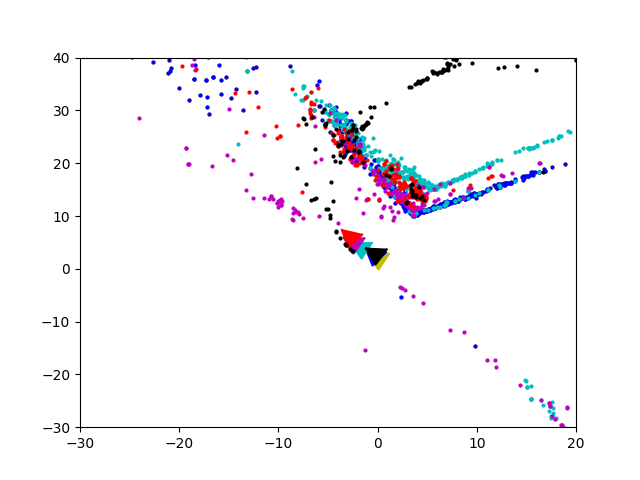
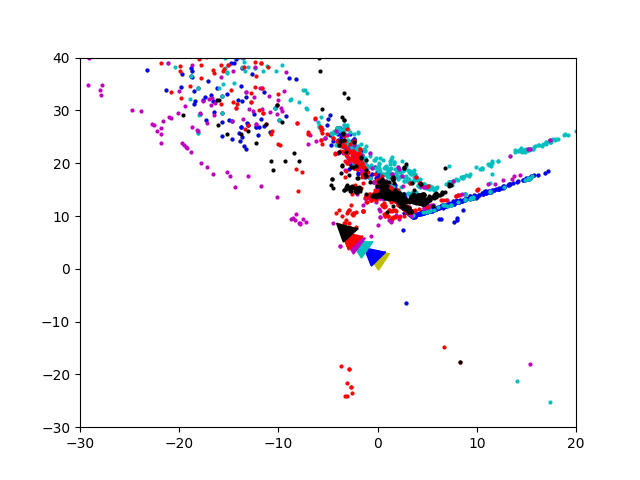
BA done

diff --git a/Code/Part1/BundleAdjustment.py b/Code/Part1/BundleAdjustment.py
@@ -2,9 +2,27 @@ import numpy as np
 from scipy.optimize import least_squares
 from NonlinearPnP import rot2Quat, quat2Rot
 from Misc.utils import MiscFuncs
+from scipy.sparse import lil_matrix
+import time
+
+def bundle_adjustment_sparsity(n_cameras, n_points, camera_indices, point_indices):
+    m = camera_indices.size * 2
+    n = n_cameras * 7 + n_points * 3
+    A = lil_matrix((m, n), dtype=int)
+
+    i = np.arange(camera_indices.size)
+    for s in range(7):
+        A[2 * i, camera_indices * 7 + s] = 1
+        A[2 * i + 1, camera_indices * 7 + s] = 1
+
+    for s in range(3):
+        A[2 * i, n_cameras * 7 + point_indices * 3 + s] = 1
+        A[2 * i + 1, n_cameras * 7 + point_indices * 3 + s] = 1
+
+    return A
 
 
-def compute_reproj_err(img_pts_2d, param_cam, world_pts_3d):
+def compute_reproj_err_all(K, img_pts_2d, param_cam, world_pts_3d):
 
     misc_funcs = MiscFuncs()
     ones = np.ones((world_pts_3d.shape[0], 1))
@@ -16,16 +34,18 @@ def compute_reproj_err(img_pts_2d, param_cam, world_pts_3d):
         R = quat2Rot(param_cam[i, :4])
         C = param_cam[i, 4:]
         M = misc_funcs.get_projection_matrix(K, R, C)
-        p = np.reshape((4, 1))
+        p = p.reshape((4, 1))
         proj_pt = np.dot(M, p)
         proj_pt = proj_pt/proj_pt[2]
-        pt_img_proj = np.append(pt_img_proj,[proj_pt[0], proj_pt[1]],axis=0)
+        proj_pt = proj_pt[:2]
+        proj_pt = proj_pt.reshape((1, 2))
+        pt_img_proj = np.append(pt_img_proj, proj_pt, axis=0)
 
     reproj_err = img_pts_2d - pt_img_proj
-    reproj_err = reproj_err**2
-    reproj_err = np.sum(reproj_err, axis=1)
+    # reproj_err = reproj_err**2
+    # reproj_err = np.sum(reproj_err, axis=1)
 
-    return reproj_err
+    return reproj_err.ravel()
 
 
 def get_bund_adj_params(pose_set, X_world_all, map_2d_3d):
@@ -35,6 +55,8 @@ def get_bund_adj_params(pose_set, X_world_all, map_2d_3d):
     indices_3d_pts = np.empty(0, dtype=int)
     img_pts_2d = np.empty((0, 2), dtype=np.float32)
     indices_cam = np.empty(0, dtype=int)
+
+    n_cam = max(pose_set.keys())
 
     # for each camera pose(1-6)
     for k in pose_set.keys():
@@ -47,13 +69,11 @@ def get_bund_adj_params(pose_set, X_world_all, map_2d_3d):
         x0 = np.append(x0, C, axis=0)
 
         for p in map_2d_3d[k]:
-            print(p[1])
-            indices_3d_pts = np.append(indices_3d_pts, p[1], axis=0)
-            img_pts_2d = np.append(img_pts_2d, p[0], axis=0)
-            indices_cam = np.append(indices_cam, k-1, axis=0)
+            indices_3d_pts = np.append(indices_3d_pts, [p[1]], axis=0)
+            img_pts_2d = np.append(img_pts_2d, [p[0]], axis=0)
+            indices_cam = np.append(indices_cam, [k-1], axis=0)
 
     x0 = np.append(x0, X_world_all.flatten(), axis=0)
-    n_cam = np.shape(indices_cam)[0]
     n_3d = X_world_all.shape[0]
 
     return n_cam, n_3d, indices_3d_pts, img_pts_2d, indices_cam, x0
@@ -63,26 +83,33 @@ def optimize(x0, n_cam, n_3d, indices_3d_pts, img_pts_2d, indices_cam, K):
 
     param_cam = x0[:n_cam*7].reshape((n_cam, 7))
     world_pts_3d = x0[n_cam*7:].reshape((n_3d, 3))
-
     reproj_err = compute_reproj_err_all(K, img_pts_2d, param_cam[indices_cam], world_pts_3d[indices_3d_pts])
-
+    # print("error ka shape - {}".format(reproj_err.shape))
     return reproj_err
 
 
 def bundle_adjustment(pose_set, X_world_all, map_2d_3d, K):
 
+
     n_cam, n_3d, indices_3d_pts, img_pts_2d, indices_cam, x0 = get_bund_adj_params(pose_set, X_world_all, map_2d_3d)
 
-    result = least_squares(fun=optimize, x0=x0, ftol=1e-3, args=(n_cam, n_3d, indices_3d_pts, img_pts_2d, indices_cam, K))
+    print("chaliye shuru karte he BA--> ")
+    A = bundle_adjustment_sparsity(n_cam, n_3d, indices_cam, indices_3d_pts)
+
+    start = time.time()
+    result = least_squares(fun=optimize, x0=x0, jac_sparsity=A, verbose=2, x_scale='jac',
+    ftol=1e-4, method='trf', args=(n_cam, n_3d, indices_3d_pts, img_pts_2d, indices_cam, K))
+    end = time.time()
+    print("optimisation took -- {} seconds".format(start-end))
 
     param_cam = result.x[:n_cam*7].reshape((n_cam, 7))
     X_world_all_opt = result.x[n_cam*7:].reshape((n_3d, 3))
     pose_set_opt = {}
     i = 0
     for cp in param_cam:
-        R = quat2Rot(param_cam[:4])
-        C = param_cam[4:].reshape((3, 1))
-        pose_set_opt[i] = np.hstack((R, C))
+        R = quat2Rot(cp[:4])
+        C = cp[4:].reshape((3, 1))
+        pose_set_opt[i] = np.hstack((R, C))    
         i += 1
 
     return pose_set_opt, X_world_all_opt

diff --git a/Code/Part1/Wrapper.py b/Code/Part1/Wrapper.py
@@ -219,19 +219,19 @@ def main():
         # do bundle adjustment
         map_2d_3d[new_img_num] = zip(pts_img_all, range(X_set.shape[0], X_set.shape[0] + X_all.shape[0]))
         X_set = np.append(X_set, X_all, axis=0)
+        print("X_all and X_set shape - {} & {}".format(X_all.shape, X_set.shape))
 
         print("doing Bundle Adjustment --> ")
         pose_set_opt, X_set = bundle_adjustment(pose_set, X_set, map_2d_3d, K)
-        print("outputs of BA")
-        print(pose_set_opt)
-        print(X_set.shape)
+        # print("outputs of BA")
+        # print(pose_set_opt)
+        # print(X_set.shape)
 
-
-    # print("plotting all the camera poses and their respective correspondences\n")
-    # plot_funcs.plot_camera_poses(pose_set, corresp_2d_3d, save=True)
-    # print(mean_proj_error)
-    # print(pose_set)
-
+        # print("plotting all the camera poses and their respective correspondences\n")
+        plot_funcs.plot_camera_poses(pose_set, corresp_2d_3d, save=True)
+        # print(mean_proj_error)
+        # print(pose_set)
+        plot_funcs.bundle_adjustment_op(pose_set_opt, X_set)
 
 
 if __name__ == '__main__':

diff --git a/Code/Part1/Misc/utils.py b/Code/Part1/Misc/utils.py
@@ -149,6 +149,37 @@ class PlotFuncs:
         plt.show()
 
 
+    def bundle_adjustment_op(self, poses, X_world_all):
+
+
+        colormap = ['y', 'b', 'c', 'm', 'r', 'k']
+
+        fig = plt.figure()
+        ax = fig.add_subplot(111)
+
+
+        for c, p in zip(colormap, poses):
+
+            # extract the camera pose
+            pose = poses[p]
+            R = pose[:, 0:3]
+            C = pose[:, 3]
+
+            # plot the cameras
+            euler_angles = self.misc_funcs.rotationMatrixToEulerAngles(R)
+            angles_camera = np.rad2deg(euler_angles)
+
+            t = mpl.markers.MarkerStyle(marker=mpl.markers.CARETDOWN)
+            t._transform = t.get_transform().rotate_deg(int(angles_camera[1]))
+            ax = plt.gca()
+            ax.scatter((C[0]), (C[2]), marker=t, s=250, color=c)
+
+        ax.scatter(X_world_all[:, 0], X_world_all[:, 2], s=4, color='k')
+        plt.xlim(-30, 20)
+        plt.ylim(-30, 40)
+
+        plt.savefig('ba_op.png')
+        plt.show()
 
 
     def plot_reproj_points(self, image, image_num, pts_img_all, pts_img_reproj_all, save=False):

diff --git a/Code/Part1/GetInliersRANSAC.py b/Code/Part1/GetInliersRANSAC.py
@@ -3,7 +3,7 @@ import os
 import cv2
 import numpy as np
 from EstimateFundamentalMatrix import estimate_f_matrix
-
+np.random.seed(2)
 
 def get_inliers_ransac(pts_from_txt, thresh=0.005):
 
@@ -16,7 +16,9 @@ def get_inliers_ransac(pts_from_txt, thresh=0.005):
     pts_img1 = np.hstack((pts_img1, ones))
     pts_img2 = np.hstack((pts_img2, ones))
 
-
+    ''' 42 - 858
+    '''
+    random.seed(42)
     ## RANSAC
     max_inliers = 0
 

diff --git a/Code/Part1/Misc/SavePtsFromText.py b/Code/Part1/Misc/SavePtsFromText.py
@@ -52,7 +52,7 @@ def save_ransac_pts(path):
 
     cur_path = os.getcwd()
     # thresholds = [0.001, 0.002] perfect for 3 and 4
-    thresholds = [0.0025, 0.0025, 0.001, 0.002]
+    thresholds = [0.0025, 0.0025, 0.0025, 0.0025]
     for nums, thresh in zip(image_nums, thresholds):
         img_pair = str(nums[0])+str(nums[1])
         file_name = "matches"+img_pair+".txt"

diff --git a/Code/Part1/PnPRANSAC.py b/Code/Part1/PnPRANSAC.py
@@ -35,6 +35,9 @@ def pnp_ransac(corresp_2d_3d, K, thresh = 20):
     corresp = corresp_2d_3d
 
     max_inliers = 0
+    # 42
+    # 26
+    random.seed(26)
 
     # perform RANSAC to estimate the best pose
     for i in range(10000):
